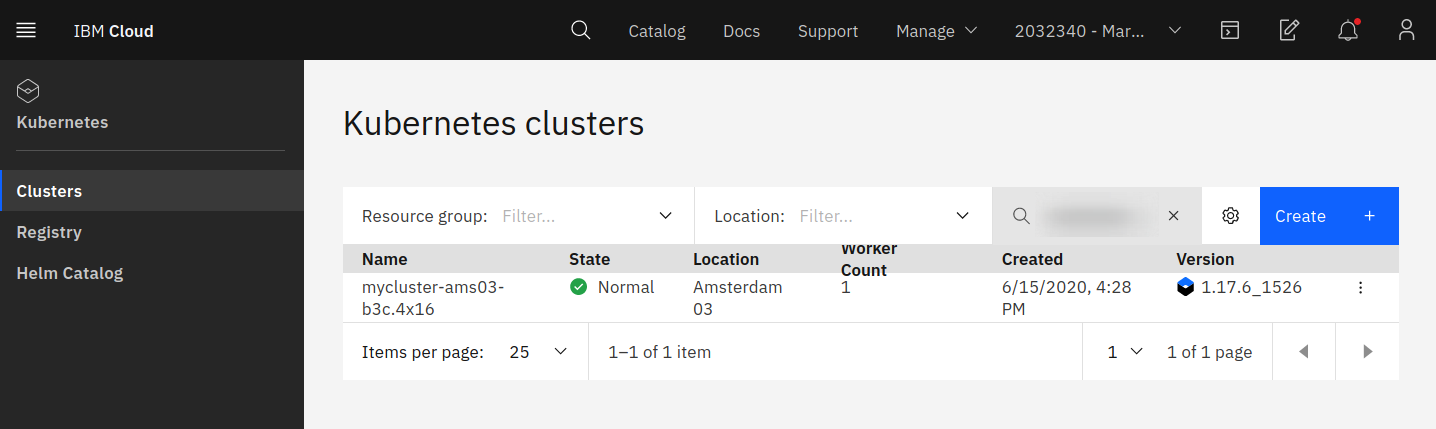
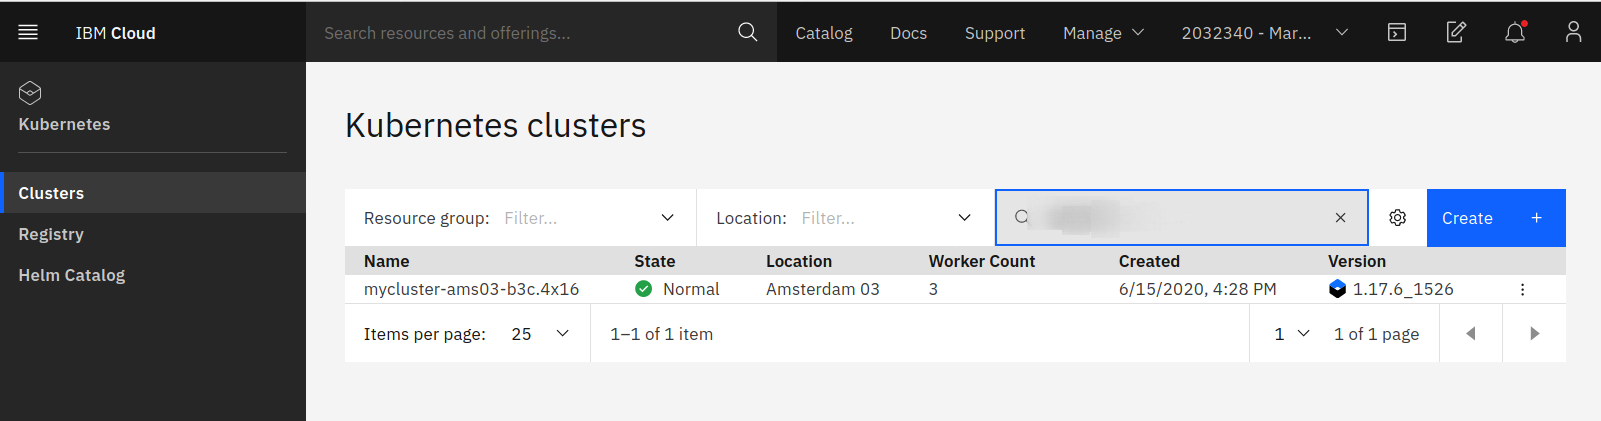
update

diff --git a/docs/2-InstallKnative.md b/docs/2-InstallKnative.md
@@ -1,0 +1,47 @@
+# Installing Knative
+
+The Kubernetes cluster you have been assigned and you will use during this workshop is provided by the [IBM Cloud Kubernetes Service](https://cloud.ibm.com/docs/containers?topic=containers-getting-started), IKS. 
+
+IKS offers add-ons to Kubernetes, namely Istio and Knative. They will be automatically installed and managed by IBM. There is a cluster size requirement for Istio (minimum 3 worker nodes) which is also applicable to Knative because it requires Istio.
+
+1. To install Knative, go to the 'Add-ons' page of your cluster:
+   ![IKS add-ons](images/add-ons.png)
+   
+1. Click on 'Install', this will inform you about the version of Istio and Knative:
+   ![IKS add-ons](images/knative-add-on.png)
+   
+1. Click 'Install' again, after a moment, the 'Install' buttons for Istio and Knative will disappear and a status for the installation will show:
+   ![IKS add-ons](images/add-ons-2.png)
+      
+1. The installation status will show a green check mark and "Normal - Addon Ready"
+when Knative and Istio have been installed successfully.
+
+1. In Cloud Shell check the Kubernetes namespaces:
+
+   ```
+   kubectl get ns
+   ```
+   Output:
+   ```
+   NAME               STATUS   AGE
+default            Active   18h
+ibm-cert-store     Active   18h
+ibm-operators      Active   18h
+ibm-system         Active   18h
+istio-system       Active   12m
+knative-eventing   Active   12m
+knative-serving    Active   12m
+knative-sources    Active   12m
+kube-node-lease    Active   18h
+kube-public        Active   18h
+kube-system        Active   18h
+tekton-pipelines   Active   12m
+   ```
+   Notice 'istio-system# and the namespaces starting with 'knative-'
+   
+   If you like check the pods in each of these namespaces.
+   
+---
+
+__Continue with the next part [Deploy a Knative Service](3-DeployKnativeService.md)__      
+

diff --git a/docs/1-Prereqs.md b/docs/1-Prereqs.md
@@ -49,14 +49,32 @@ We will work with the cluster in the command line mostly, using different CLIs. 
    ibmcloud ks cluster ls
    ```
    This should display the name of your cluster, its ID, and a few other things
+1. Create an environment variable $CLUSTER_NAME that conatins the name of your cluster.
+  
+   Example:
+   ```
+   export CLUSTER_NAME=mycluster-ams03-b3c.4x16
+   ```  
 1. Download the cluster configuration for 'kubectl':
    ```
-   ibmcloud ks cluster config --cluster [cluster_name]
+   ibmcloud ks cluster config --cluster $CLUSTER_NAME
    ```
    ![cloudshell](images/cloudshell.png)   
 1. Test access to the cluster by displaying the available namespaces:
    ```
    kubectl get namespace
    ```
-   
+
+## 4. Get the code
+
+In your Cloud Shell enter the following command to download the code from Github:
+
+```
+git clone https://github.com/Harald-U/knative-handson-workshop.git
+cd knative-handson-workshop/code
+```
+
+---
+
+__Continue with the next part [Installing Knative](2-InstallKnative.md)__
       

diff --git a/docs/3-DeployKnativeService.md b/docs/3-DeployKnativeService.md
@@ -1,0 +1,2 @@
+# Deploy a Knative Service
+
